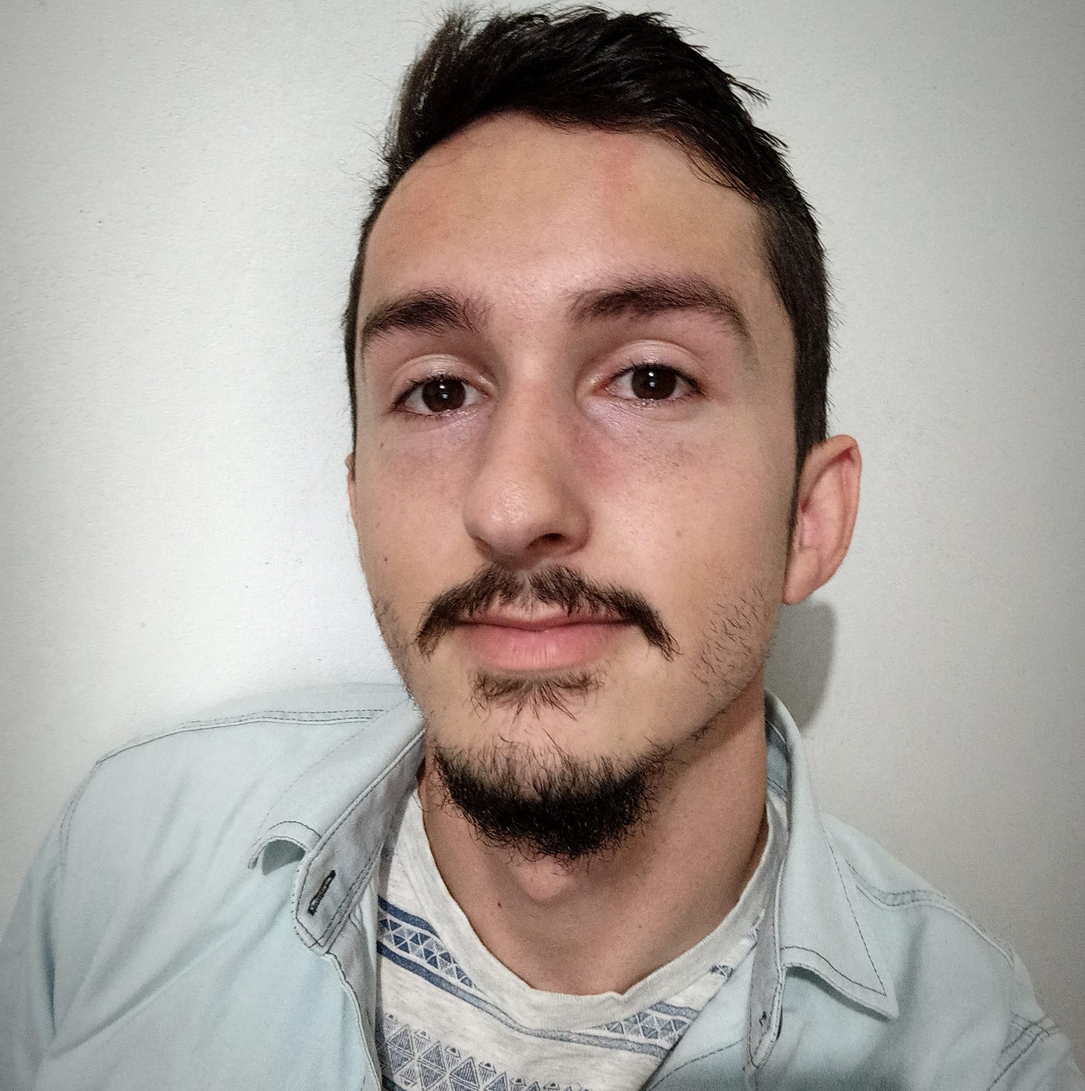
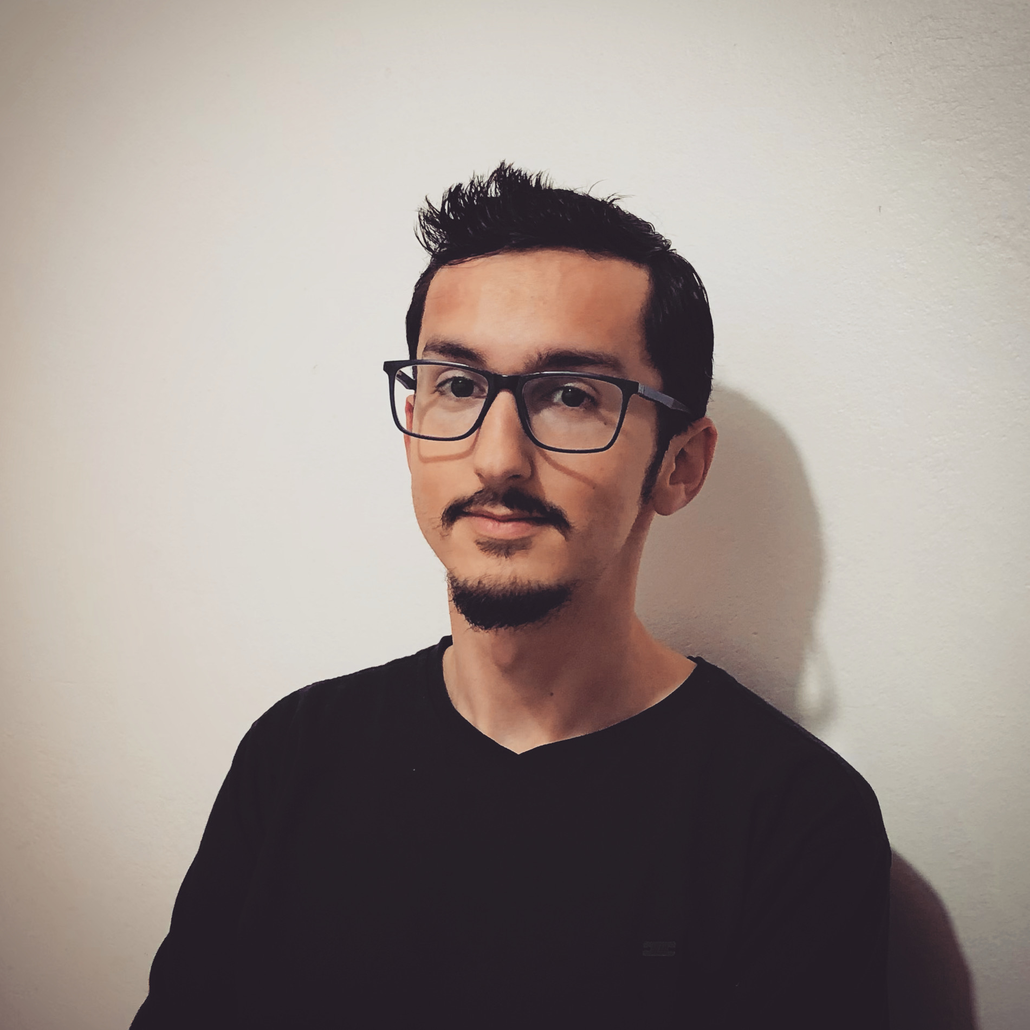
Alteração de imagem
Foi alterado a imagem do perfil e iniciado a parte de correções de texto

diff --git a/index.html b/index.html
@@ -72,7 +72,7 @@
   <section id="hero" class="d-flex flex-column justify-content-center align-items-center">
     <div class="hero-container" data-aos="fade-in">
       <h1>Renan Konrath</h1>
-      <p>I'm <span class="typed" data-typed-items=" Developer, Designer, Freelancer"></span></p>
+      <p>I'm <span class="typed" data-typed-items=" Developer, Designer, Freelancer, Back-End, Front-End"></span></p>
     </div>
   </section><!-- End Hero -->
 
@@ -84,9 +84,9 @@
 
         <div class="section-title">
           <h2>Sobre</h2>
-          <p>Apaixonado por inovações e buscando simplificar os processos para ajudar o maximo de pessoas em um unico
+          <p>Apaixonado por inovações e buscando simplificar os processos para ajudar o máximo de pessoas em um único
             processo.
-            Utilizando a técnologia acredito ser possivel mudar qualquer processo com objetivo de deixar facil e
+            Utilizando a técnologia acredito ser possível mudar qualquer processo com objetivo de deixar fácil e
             produtivo.
           </p>
         </div>
@@ -98,7 +98,7 @@
           <div class="col-lg-8 pt-4 pt-lg-0 content" data-aos="fade-left">
             <h3>Desenvolvedor &amp; Analista</h3>
             <p class="fst-italic">
-              Procuro oportunidade relacionada ao mercado de TI, que possa trazer novas perspectivas de futuro e
+              Em busca de oportunidade relacionada ao mercado de TI, que possa trazer novas perspectivas de futuro e
               crescimento. Estou à procura de novas experiência de trabalho após formado em Especialista em
               Engenharia de Sofware e Inovação. Quero desenvolver minhas habilidades e também contribuir para
               o sucesso da empresa.
@@ -107,7 +107,8 @@
               <div class="col-lg-6">
                 <ul>
                   <!-- <li><i class="bi bi-chevron-right"></i> <strong>Aniversário:</strong> <span>1 May 1995</span></li> -->
-                  <li><i class="bi bi-chevron-right"></i> <strong>Currículo:</strong> <span>www.example.com</span></li>
+                  <li><i class="bi bi-chevron-right"></i> <strong>Currículo:</strong>
+                    <span>renantdai.github.io/portfolio</span></li>
                   <li><i class="bi bi-chevron-right"></i> <strong>Telefone:</strong> <span>+51 99789-8663</span></li>
                   <li><i class="bi bi-chevron-right"></i> <strong>Cidade:</strong> <span>Tramandaí, RS</span></li>
                 </ul>
@@ -116,9 +117,9 @@
                 <ul>
                   <li><i class="bi bi-chevron-right"></i> <strong>Idade:</strong> <span>25+1</span></li>
                   <!--                   <li><i class="bi bi-chevron-right"></i> <strong>Degree:</strong> <span>Master</span></li> -->
-                  <li><i class="bi bi-chevron-right"></i> <strong>Email:</strong> <span>email@example.com</span>
+                  <li><i class="bi bi-chevron-right"></i> <strong>Email:</strong> <span>renankh@hotmail.com</span>
                   </li>
-                  <li><i class="bi bi-chevron-right"></i> <strong>Freelance:</strong> <span>Disponível</span></li>
+                  <li><i class="bi bi-chevron-right"></i> <strong>Freelancer:</strong> <span>Disponível</span></li>
                 </ul>
               </div>
             </div>
@@ -134,8 +135,8 @@
 
         <div class="section-title">
           <h2>Impacto na Sociedade</h2>
-          <p>Através dos projetos desenvolvidos consegui chegar em todos os moradores do municipio de Imbé alem
-            pode implementar soluções para melhorar a vida dos cidadãos.
+          <p>Através dos projetos desenvolvidos consegui chegar em todos os moradores do Munícipio de Imbé além de
+            pode implementar soluções para melhorar a vida dos Cidadãos.
           </p>
         </div>
 
@@ -146,7 +147,7 @@
               <i class="bi bi-emoji-smile"></i>
               <span data-purecounter-start="0" data-purecounter-end="25200" data-purecounter-duration="1"
                 class="purecounter"></span>
-              <p><strong>Pessoas Atingidas</strong></p>
+              <p><strong>Pessoas atingidas</strong></p>
             </div>
           </div>
 
@@ -303,15 +304,12 @@
 
         <div class="section-title">
           <h2>Trajetória</h2>
-          <p>Aos treze anos iniciei cursos da area da informatica como cursos basicos, pacote office, webdesign,
-            manutenção e
-            montagem de computadores e notebook até chegar aos meus dezessete anos e iniciar a graduação. Atuei
-            trabalhando no
-            comercio varejista onde no ano de 2019 surgiu a oportunidade de trabalhar na area de informática. Desde
-            então aperfeiçoei
+          <p>Aos treze anos iniciei cursos da área da informática como cursos básicos, pacote office, web design,
+            manutenção e montagem de computadores e notebook até chegar aos meus dezessete anos e iniciar a graduação.
+            Atuei trabalhando no comercio varejista onde no ano de 2019 surgiu a oportunidade de trabalhar na área
+            de informática. Desde então aperfeiçoei
             meus conhecimentos através da especialização iniciada em 2019 e iniciando diversos desafios para ajudar e
-            facilitar a
-            vida das pessoas.
+            facilitar a vida das pessoas.
           </p>
         </div>
 
@@ -439,7 +437,7 @@
             <ul id="portfolio-flters">
               <li data-filter="*" class="filter-active">All</li>
               <li data-filter=".filter-imp">Implementação</li>
-<!--               <li data-filter=".filter-card">Card</li> -->
+              <!--               <li data-filter=".filter-card">Card</li> -->
               <li data-filter=".filter-web">Web</li>
             </ul>
           </div>
@@ -452,8 +450,8 @@
               <img src="assets/img/portfolio/portfolio-1.jpg" class="img-fluid" alt="">
               <div class="portfolio-links">
                 <a href="assets/img/portfolio/portfolio-1.jpg" data-gallery="portfolioGallery"
-                  class="portfolio-lightbox" title="App 1"><i class="bx bx-plus"></i></a>
-                <a href="portfolio-details.html" title="More Details"><i class="bx bx-link"></i></a>
+                  class="portfolio-lightbox" title="Censo Municipal de Imbé"><i class="bx bx-plus"></i></a>
+                <a href="#" title="More Details"><i class="bx bx-link"></i></a>
               </div>
             </div>
           </div>
@@ -463,8 +461,8 @@
               <img src="assets/img/portfolio/portfolio-2.jpg" class="img-fluid" alt="">
               <div class="portfolio-links">
                 <a href="assets/img/portfolio/portfolio-2.jpg" data-gallery="portfolioGallery"
-                  class="portfolio-lightbox" title="Web 3"><i class="bx bx-plus"></i></a>
-                <a href="portfolio-details.html" title="More Details"><i class="bx bx-link"></i></a>
+                  class="portfolio-lightbox" title="Iluminação Pública"><i class="bx bx-plus"></i></a>
+                <a href="#" title="More Details"><i class="bx bx-link"></i></a>
               </div>
             </div>
           </div>
@@ -474,8 +472,8 @@
               <img src="assets/img/portfolio/portfolio-3.jpg" class="img-fluid" alt="">
               <div class="portfolio-links">
                 <a href="assets/img/portfolio/portfolio-3.jpg" data-gallery="portfolioGallery"
-                  class="portfolio-lightbox" title="App 2"><i class="bx bx-plus"></i></a>
-                <a href="portfolio-details.html" title="More Details"><i class="bx bx-link"></i></a>
+                  class="portfolio-lightbox" title="Sistema de Chamados - OTRS"><i class="bx bx-plus"></i></a>
+                <a href="#" title="More Details"><i class="bx bx-link"></i></a>
               </div>
             </div>
           </div>
@@ -485,8 +483,8 @@
               <img src="assets/img/portfolio/portfolio-4.jpg" class="img-fluid" alt="">
               <div class="portfolio-links">
                 <a href="assets/img/portfolio/portfolio-4.jpg" data-gallery="portfolioGallery"
-                  class="portfolio-lightbox" title="Card 2"><i class="bx bx-plus"></i></a>
-                <a href="portfolio-details.html" title="More Details"><i class="bx bx-link"></i></a>
+                  class="portfolio-lightbox" title="Fila Unica - Secretária de Educação"><i class="bx bx-plus"></i></a>
+                <a href="#" title="More Details"><i class="bx bx-link"></i></a>
               </div>
             </div>
           </div>
@@ -496,8 +494,8 @@
               <img src="assets/img/portfolio/portfolio-5.jpg" class="img-fluid" alt="">
               <div class="portfolio-links">
                 <a href="assets/img/portfolio/portfolio-5.jpg" data-gallery="portfolioGallery"
-                  class="portfolio-lightbox" title="Web 2"><i class="bx bx-plus"></i></a>
-                <a href="portfolio-details.html" title="More Details"><i class="bx bx-link"></i></a>
+                  class="portfolio-lightbox" title="Rede Wireless com Unifi"><i class="bx bx-plus"></i></a>
+                <a href="#" title="More Details"><i class="bx bx-link"></i></a>
               </div>
             </div>
           </div>
@@ -507,19 +505,20 @@
               <img src="assets/img/portfolio/portfolio-6.jpg" class="img-fluid" alt="">
               <div class="portfolio-links">
                 <a href="assets/img/portfolio/portfolio-6.jpg" data-gallery="portfolioGallery"
-                  class="portfolio-lightbox" title="App 3"><i class="bx bx-plus"></i></a>
-                <a href="portfolio-details.html" title="More Details"><i class="bx bx-link"></i></a>
+                  class="portfolio-lightbox" title="Sistema de Almoxarifado - GRP"><i class="bx bx-plus"></i></a>
+                <a href="#" title="More Details"><i class="bx bx-link"></i></a>
               </div>
             </div>
           </div>
- 
+
           <div class="col-lg-4 col-md-6 portfolio-item filter-card">
             <div class="portfolio-wrap">
               <img src="assets/img/portfolio/portfolio-7.jpg" class="img-fluid" alt="">
               <div class="portfolio-links">
                 <a href="assets/img/portfolio/portfolio-7.jpg" data-gallery="portfolioGallery"
-                  class="portfolio-lightbox" title="Card 1"><i class="bx bx-plus"></i></a>
-                <a href="portfolio-details.html" title="More Details"><i class="bx bx-link"></i></a>
+                  class="portfolio-lightbox" title="Power BI - Análise dos Dados do Censo Municipal"><i
+                    class="bx bx-plus"></i></a>
+                <a href="#" title="More Details"><i class="bx bx-link"></i></a>
               </div>
             </div>
           </div>
@@ -530,11 +529,11 @@
               <div class="portfolio-links">
                 <a href="assets/img/portfolio/portfolio-8.jpg" data-gallery="portfolioGallery"
                   class="portfolio-lightbox" title="Card 3"><i class="bx bx-plus"></i></a>
-                <a href="portfolio-details.html" title="More Details"><i class="bx bx-link"></i></a>
+                <a href="#" title="Ferramenta de automação de consultas"><i class="bx bx-link"></i></a>
               </div>
             </div>
           </div>
-<!--
+          <!--
           <div class="col-lg-4 col-md-6 portfolio-item filter-web">
             <div class="portfolio-wrap">
               <img src="assets/img/portfolio/portfolio-9.jpg" class="img-fluid" alt="">
@@ -646,9 +645,7 @@
 
         <div class="section-title">
           <h2>Contato</h2>
-          <p>Magnam dolores commodi suscipit. Necessitatibus eius consequatur ex aliquid fuga eum quidem. Sit sint
-            consectetur velit. Quisquam quos quisquam cupiditate. Et nemo qui impedit suscipit alias ea. Quia fugiat sit
-            in iste officiis commodi quidem hic quas.</p>
+          <p>Para entrar em contato poderá enviar um email ou entrar em contato via Whatsapp ou telefone.</p>
         </div>
 
         <div class="row" data-aos="fade-in">
